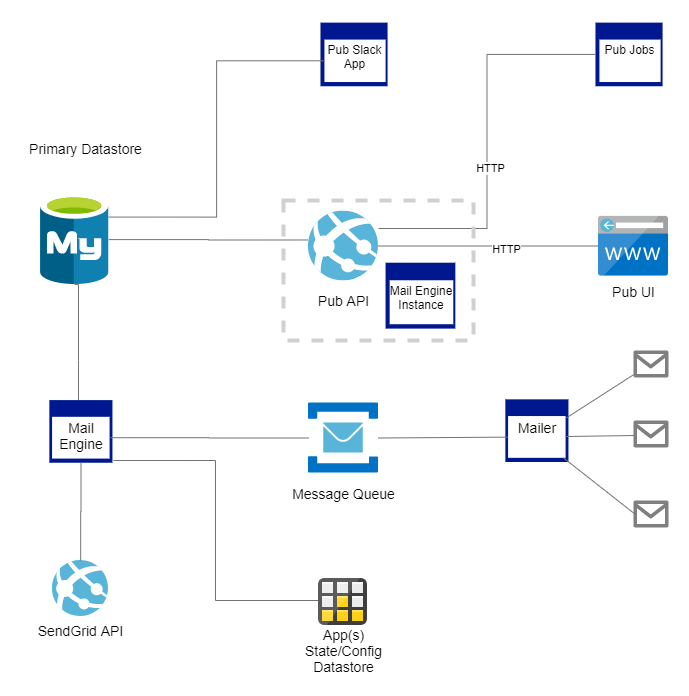
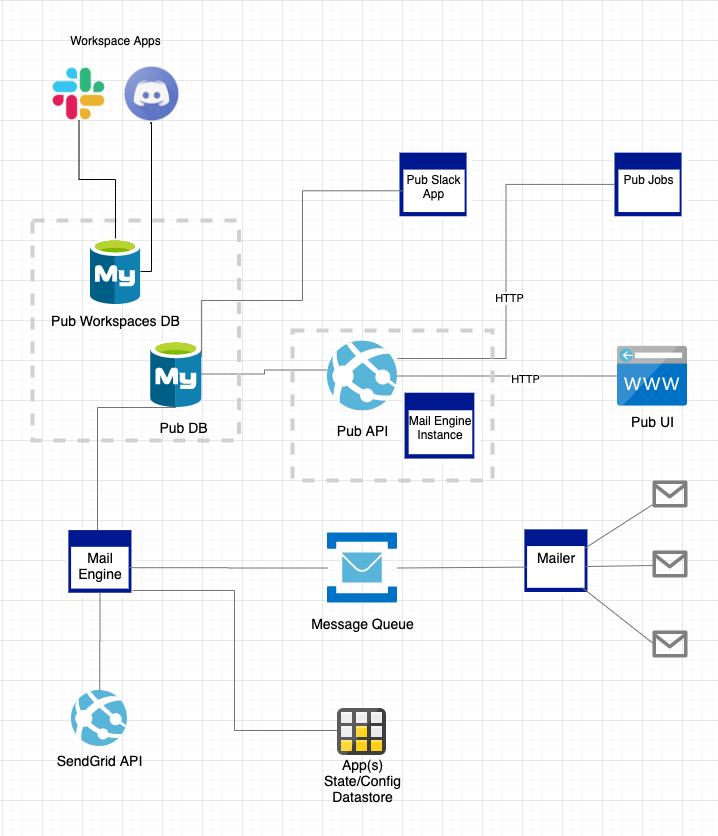
include workspaces apps in system diagram (#110)
* include workspaces apps in system diagram

* remove design directory

* remove adr directory

diff --git a/docs/README.md b/docs/README.md
@@ -1,1 +1,4 @@
 # Docs
+
+## Pub System Architecture
+![Project Unicorn Entity Relationship Diagram](../images/pub.png)
